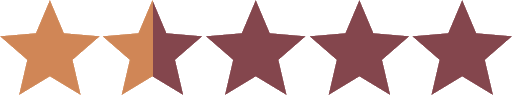
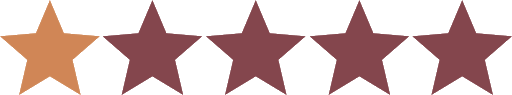
added recipes to population script and made index recipes dynamic

Changed region(s): [[0.1875, 0.0211, 0.3125, 1.0]]

diff --git a/spatula_project/templates/spatula/index.html b/spatula_project/templates/spatula/index.html
@@ -49,21 +49,28 @@
     </div>
 
     <img src="{% static 'images/newrecipe.png' %}" class="newrecipe">
-
+	{% if recipies %}
     <div id="recipies">
+		{% for recipe in recipies %}
         <div class="recipe">
             <img src="{% static 'images/samplerecipe1.jpg' %}" class="recipeimg">
             <div class="recipename">
-                <p>Recipe Name</p>
+                <p>{{ recipe.name }}</p>
             </div>
             <p class="reciperatingtotal">(128)</p>
-            <img src="{% static 'images/stars/9.png' %}" class="reciperating">
-            <img src="{{MEDIA_URL}}images/vegan.png " class="recipemeat">
+			{% with 'images/stars/'|add:recipe.rating|add:'.png' as image_static %}
+            <img src="{% static image_static %}" class="reciperating">
+			{%endwith%}
+            <img src="{{MEDIA_URL}}images/{{ recipe.diettype }}.png " class="recipemeat">
             <div class="recipecategory">
-                <p>Category</p>
+			{% with recipe.category|cut:"Category object (" as cut_cat %}
+                <p>{{cut_cat|cut:")"}}</p>
+			{% endwith %}
             </div>
         </div>
-        
+        {% endfor %}
+	{% endif %}
+		<!--
         <div class="recipe">
             <img src="{% static 'images/samplerecipe2.jpg' %}" class="recipeimg">
             <div class="recipename">
@@ -116,4 +123,5 @@
             </div>
         </div>
     </div>
+	-->
 {% endblock %}

diff --git a/spatula_project/databasePopulate.py b/spatula_project/databasePopulate.py
@@ -8,6 +8,7 @@ import django
 django.setup()
 
 from spatulaApp.models import Category
+from spatulaApp.models import Recipe
 
 
 def populate():    
@@ -36,10 +37,39 @@ def populate():
             'name':'Other'
         }
     ]
+    
+    recipies = {'Vegtable Stir Fry':
+                                    {
+                                        'ingredients':'2 tbsp sunflower oil, 4 spring onions, 1 garlic clove, piece fresh root ginger, 1 carrot, 1 red pepper, 100g/3oz baby sweetcorn, 1 courgette, 150g/5oz sugar-snap peas, 2 tbsp hoisin sauce, 2 tbsp low-salt soy sauce',
+                                        'toolsreq':'Wok, Spatula',
+                                        'method': 'Heat a wok on a high heat and add the sunflower oil. Add the spring onions, garlic, ginger and stir-fry for 1 minute, then reduce the heat. Take care to not brown the vegetables. /ES        Add the carrot, red pepper and baby sweetcorn and stir-fry for 2 minutes. Add the courgette and sugar snap peas and stir-fry for a further 3 minutes. Toss the ingredients from the centre to the side of the wok using a wooden spatula. Do not overcrowd the wok and keep the ingredients moving. /ES Add 1 tablespoon water, hoisin and soy sauce and cook over a high heat for a further 2 minutes or until all the vegetables are cooked but not too soft. Serve with noodles or rice. /ES',
+                                        'difficulty':1,
+                                        'cost':1,
+                                        'diettype':3,
+                                        'rating':3,
+                                        'category':'Chinese',
+                                    }
+                , 'American Style Burger':
+                                    {
+                                        'ingredients':'Mince, Herbs, Buns, Eggs, Seasioning, Cheese',
+                                        'toolsreq':'Frying pan',
+                                        'method':'Fry burgers',
+                                        'difficulty':3,
+                                        'cost':2,
+                                        'diettype':1,
+                                        'rating':1,
+                                        'category':'Other',
+                                    }
+                }  
+    
 
     for cat in categories:
         c = add_category(cat)
         print("\t Added",c)
+
+    for recipe, recipe_data in recipies.items(): 
+        r = add_recipe(recipe, recipe_data)
+        print("\t Added",r)
     
 
 
@@ -47,6 +77,11 @@ def add_category(category_dict):
     c = Category.objects.get_or_create(name=category_dict['name'])[0]
     c.save()
     return c
+
+def add_recipe(name, recipe_data): 
+    r = Recipe.objects.get_or_create(name=name, ingredients=recipe_data.get('ingredients'), toolsreq=recipe_data.get('toolsreq'), method=recipe_data.get('method'), difficulty=recipe_data.get('difficulty'), cost=recipe_data.get('cost'), diettype=recipe_data.get('diettype'), rating=recipe_data.get('rating'), category=Category.objects.all()[0])[0]
+    r.save()
+    return r
 
 if __name__ == '__main__':
     print("Populating database...")

diff --git a/spatula_project/spatulaApp/models.py b/spatula_project/spatulaApp/models.py
@@ -72,14 +72,14 @@ class Recipe(models.Model):
     cost                   = models.PositiveSmallIntegerField(choices=COST_CHOICES)
     diettype               = models.PositiveSmallIntegerField(choices=DIET_CHOICES)
    
-    postedby               = models.ForeignKey(UserProfile, on_delete=models.CASCADE)
+    #postedby               = models.ForeignKey(UserProfile, on_delete=models.CASCADE)
 
     #  - Following fields are hidden when creating a new recipe
     #       ratings are out of 5, to 1 decimal place.
     #  - Need a script to update rating everytime
     #       a new rating for the recipe is posted.
     rating                 = models.DecimalField(decimal_places=1,max_digits=3, default=0)
-    slug                   = models.SlugField(unique=True)
+    #slug                   = models.SlugField(unique=True)
     category               = models.ForeignKey(Category,to_field="name", on_delete=models.CASCADE)
 
     # recipes rating is calculated when the recipe is requested, no value to be stored
@@ -91,12 +91,17 @@ class Recipe(models.Model):
         l = []
         for c in Recipe.DIET_CHOICES:
             l.append(c[1])
-        return l    
+        return l 
+    
+    def getRecipiesAsDict():
+        recipe_query = Category.objects.values()
+        repice_dict = {} 
+        
     
     # used for recipe mappings
     def save(self,*args, **kwargs):
         self.slug = slugify(str(self.name)+str(self.id))
-        super(Category,self).save(*args, **kwargs)
+        super(Recipe,self).save(*args, **kwargs)
 
 
 class Image(models.Model):

diff --git a/spatula_project/spatulaApp/migrations/0001_initial.py b/spatula_project/spatulaApp/migrations/0001_initial.py
@@ -1,4 +1,4 @@
-# Generated by Django 2.2.3 on 2020-03-04 12:59
+# Generated by Django 2.2.3 on 2020-03-10 01:02
 
 from django.conf import settings
 from django.db import migrations, models
@@ -33,7 +33,7 @@ class Migration(migrations.Migration):
             fields=[
                 ('id', models.AutoField(auto_created=True, primary_key=True, serialize=False, verbose_name='ID')),
                 ('bio', models.TextField(blank=True)),
-                ('slug', models.SlugField(unique=True)),
+                ('slug', models.SlugField(blank=True, unique=True)),
                 ('user', models.OneToOneField(on_delete=django.db.models.deletion.CASCADE, to=settings.AUTH_USER_MODEL)),
             ],
         ),
@@ -49,9 +49,7 @@ class Migration(migrations.Migration):
                 ('cost', models.PositiveSmallIntegerField(choices=[(1, 1), (2, 2), (3, 3)])),
                 ('diettype', models.PositiveSmallIntegerField(choices=[(1, 'Meat'), (2, 'Vegetarian'), (3, 'Vegan')])),
                 ('rating', models.DecimalField(decimal_places=1, default=0, max_digits=3)),
-                ('slug', models.SlugField(unique=True)),
-                ('categoryForeign', models.ForeignKey(on_delete=django.db.models.deletion.CASCADE, to='spatulaApp.Category')),
-                ('postedby', models.ForeignKey(on_delete=django.db.models.deletion.CASCADE, to='spatulaApp.UserProfile')),
+                ('category', models.ForeignKey(on_delete=django.db.models.deletion.CASCADE, to='spatulaApp.Category')),
             ],
         ),
         migrations.CreateModel(

diff --git a/spatula_project/spatulaApp/forms.py b/spatula_project/spatulaApp/forms.py
@@ -6,10 +6,6 @@ from spatulaApp.models import UserProfile, Recipe, Category
 DIET_CHOICES = [(1,'Meat'), (2,'Vegan'), (3, 'Vegetarian'),]
 
 #query Category table, add objects to tuple (ChoiceField requires tuple for choice perameter) 
-category_query = Category.objects.values()
-category_list = []
-for c in category_query: 
-    category_list.append((c['name'],c['name']))
 
 class RecipeForm(forms.ModelForm):
     
@@ -17,7 +13,7 @@ class RecipeForm(forms.ModelForm):
     method = forms.CharField(max_length=512, widget=forms.Textarea(attrs={'placeholder':'Method'}))
     name = forms.CharField(max_length=128, widget=forms.TextInput(attrs={'placeholder':'Recipe Name'}))
     ingredients = forms.CharField(max_length=512, widget=forms.Textarea(attrs={'placeholder':'Ingredients'}))
-    category = forms.ChoiceField(widget=forms.Select(), choices = category_list)
+    category = forms.ChoiceField(widget=forms.Select(), choices = "")
     toolsreq = forms.CharField(max_length=512, widget=forms.TextInput(attrs={'placeholder':'Tools Required'}))
     difficulty = forms.IntegerField(widget=forms.NumberInput(attrs={'type':'range', 'step':'1', 'min':'1','max':'3'}), help_text = 'Difficulty: ')
     cost = forms.IntegerField(widget=forms.NumberInput(attrs={'type':'range', 'step':'1', 'min':'1','max':'3'}), help_text = 'Cost: ')

diff --git a/spatula_project/spatulaApp/views.py b/spatula_project/spatulaApp/views.py
@@ -10,9 +10,12 @@ from django.urls import reverse
 # here so the database can be migrated without errors
 def index(request):
     context_dict ={
+        'recipies':Recipe.objects.order_by('rating'),
         'categories':Category.getModelsAsList,
-        'diet_choices':Recipe.getChoicesAsList
+        'diet_choices':Recipe.getChoicesAsList,
         }
+    for r in context_dict['recipies']: 
+        r.rating = str(int(r.rating * 2))
     return render(request,'spatula/index.html', context_dict)
 
 
